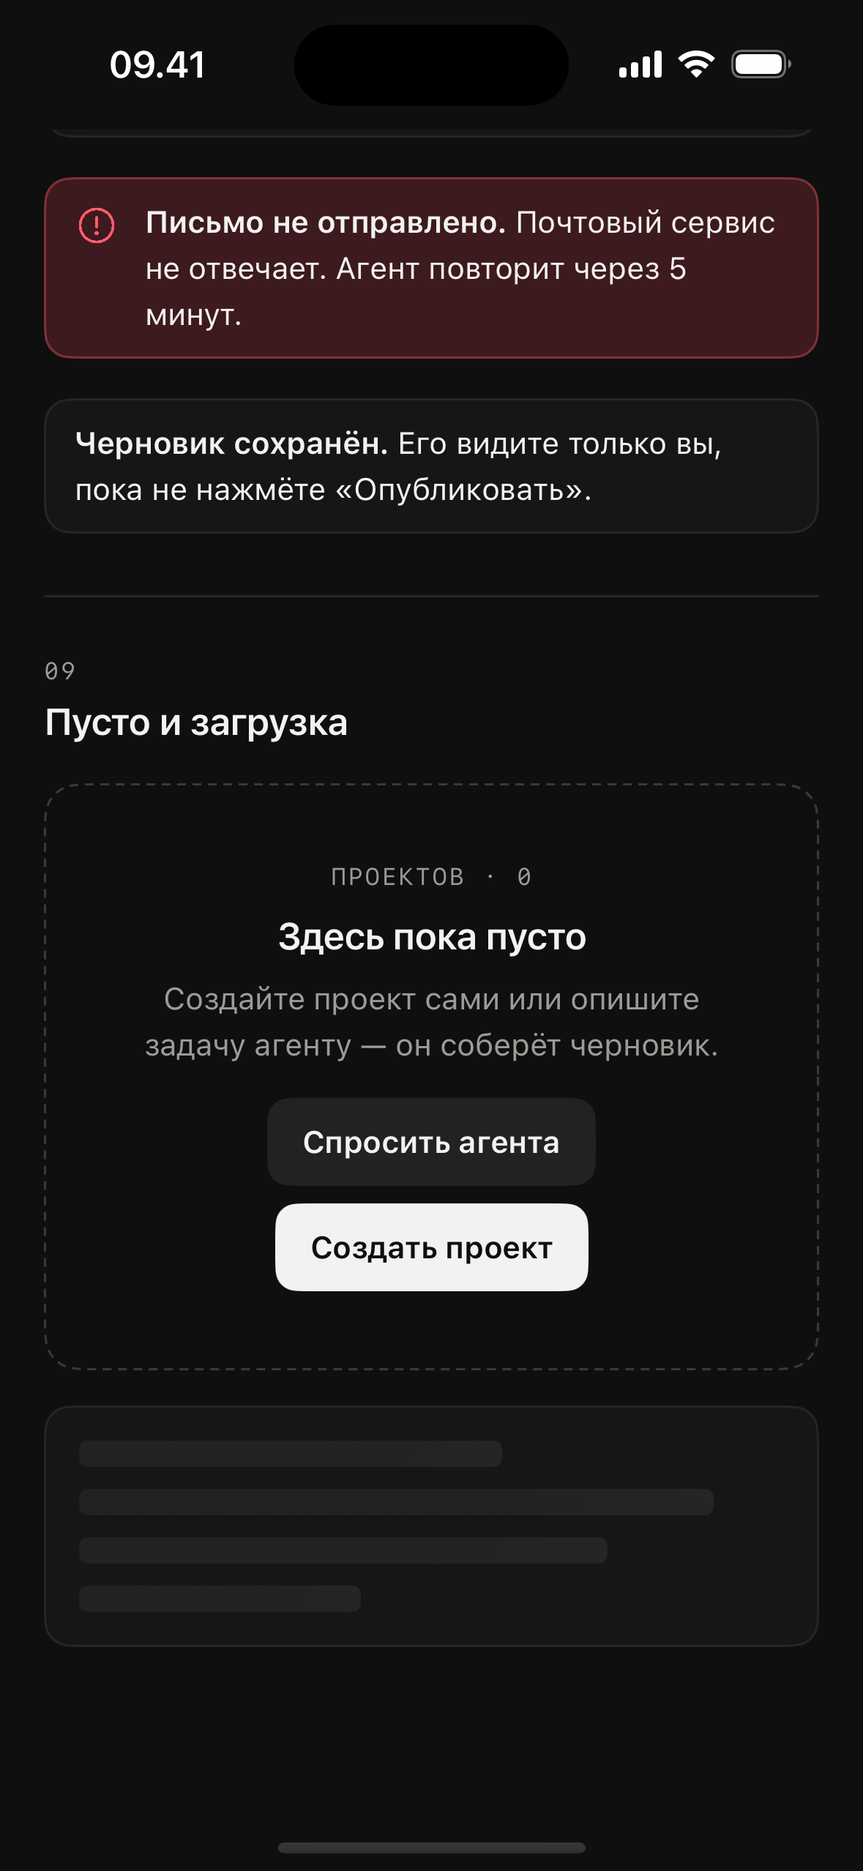
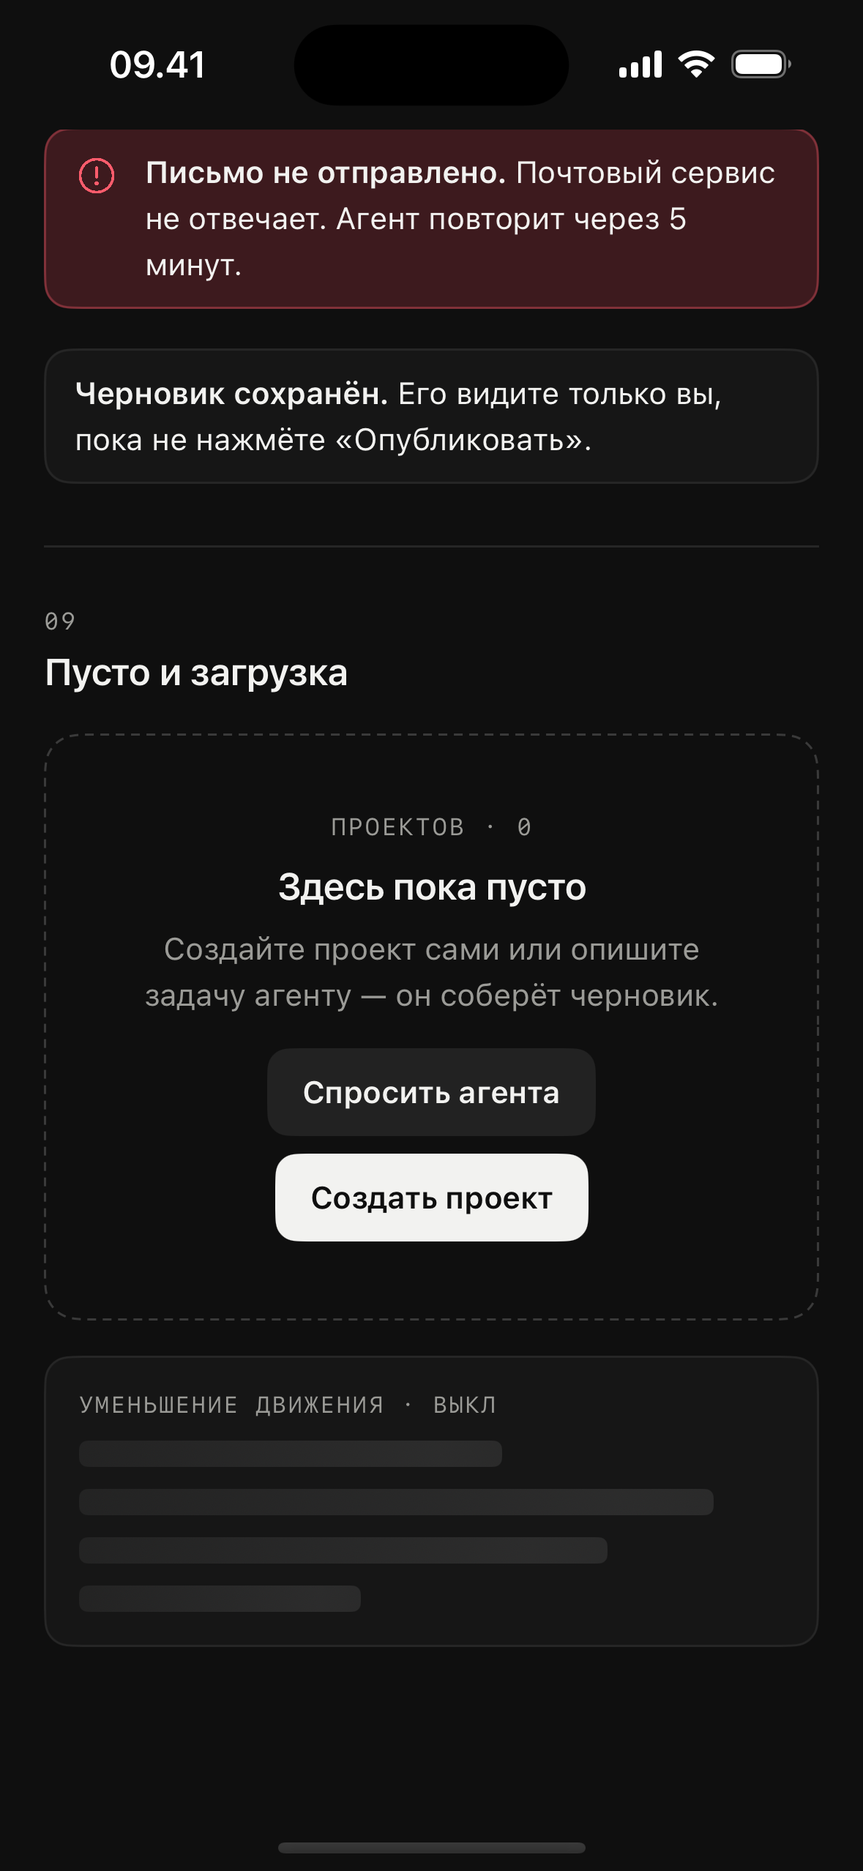
iPhone: правки повторного ревью — доступность радио и вкладок, видимое меню, крупный шрифт
- радио: название группы, «выбрано» и «1 из 3» для VoiceOver; варианты из Identifiable
- вкладки: ряд — панель вкладок, подпись со счётчиком «Задачи, 27»
- меню со значком по умолчанию — квадрат secondary, ghost только явно
- шторка: кнопки панели инструментов цветом текста
- скелет при «Уменьшении движения» — ровные плашки (проверено снимком)
- витрина: ряды кнопок при крупном шрифте встают столбиком
- снимок письма справа налево: 05-light-right-to-left.png; новый 09-light-reduce-motion.png

diff --git a/swift/YKDesign/Sources/YKDesign/Showcase/YKShowcaseView.swift b/swift/YKDesign/Sources/YKDesign/Showcase/YKShowcaseView.swift
@@ -90,19 +90,30 @@ private struct ShowcaseSection<Content: View>: View {
 }
 
 /// Подпись слева от примеров в строке, как `.line > .mono-label` в наброске.
+/// `stacksWhenCrowded` — для рядов кнопок: не помещаются в строку (крупный шрифт) — встают столбиком,
+/// а не переносятся вразнобой.
 private struct DemoLine<Content: View>: View {
     let label: String
+    let stacksWhenCrowded: Bool
     let content: Content
 
-    init(_ label: String, @ViewBuilder content: () -> Content) {
+    init(_ label: String, stacksWhenCrowded: Bool = false, @ViewBuilder content: () -> Content) {
         self.label = label
+        self.stacksWhenCrowded = stacksWhenCrowded
         self.content = content()
     }
 
     var body: some View {
         VStack(alignment: .leading, spacing: 10) {
             Text(label).ykMonoLabel()
-            FlowLayout(spacing: 10) { content }
+            if stacksWhenCrowded {
+                ViewThatFits(in: .horizontal) {
+                    HStack(spacing: 10) { content }
+                    VStack(alignment: .leading, spacing: 10) { content }
+                }
+            } else {
+                FlowLayout(spacing: 10) { content }
+            }
         }
     }
 }
@@ -123,7 +134,11 @@ private struct FlowLayout: Layout {
         for row in arrange(width: bounds.width, subviews: subviews) {
             var x = bounds.minX
             for index in row.indices {
-                let size = subviews[index].sizeThatFits(.unspecified)
+                // Элемент шире строки получает ширину строки, а не вылезает за край
+                let ideal = subviews[index].sizeThatFits(.unspecified)
+                let size = ideal.width > bounds.width
+                    ? subviews[index].sizeThatFits(ProposedViewSize(width: bounds.width, height: nil))
+                    : ideal
                 subviews[index].place(at: CGPoint(x: x, y: y + (row.height - size.height) / 2), proposal: ProposedViewSize(size))
                 x += size.width + spacing
             }
@@ -204,7 +219,7 @@ private struct TypeDemo: View {
 private struct ButtonsDemo: View {
     var body: some View {
         VStack(alignment: .leading, spacing: 18) {
-            DemoLine("Виды") {
+            DemoLine("Виды", stacksWhenCrowded: true) {
                 Button("Создать проект") {}.buttonStyle(.yk(.primary))
                 Button("Импорт") {}.buttonStyle(.yk(.secondary))
                 Button("Настроить") {}.buttonStyle(.yk(.outline))
@@ -215,13 +230,13 @@ private struct ButtonsDemo: View {
                 }
                 .buttonStyle(.yk(.link))
             }
-            DemoLine("Состояния") {
+            DemoLine("Состояния", stacksWhenCrowded: true) {
                 Button("Обычная") {}.buttonStyle(.yk(.primary))
                 Button("Отключена") {}.buttonStyle(.yk(.primary)).disabled(true)
                 Button("Агент пишет…") {}.buttonStyle(.yk(.primary, isLoading: true))
                 Button("Думаю…") {}.buttonStyle(.yk(.secondary, isLoading: true))
             }
-            DemoLine("Размеры") {
+            DemoLine("Размеры", stacksWhenCrowded: true) {
                 Button("Маленькая") {}.buttonStyle(.yk(.primary, size: .sm))
                 Button("Средняя") {}.buttonStyle(.yk(.primary, size: .md))
                 Button {} label: {
@@ -297,7 +312,7 @@ private struct ChoiceDemo: View {
             }
             VStack(alignment: .leading, spacing: 10) {
                 Text("Радио").ykMonoLabel()
-                YKRadioGroup(selection: $period, options: [("daily", "Каждый день"), ("weekly", "Раз в неделю"), ("never", "Не напоминать")])
+                YKRadioGroup("Напоминания", selection: $period, options: [("daily", "Каждый день"), ("weekly", "Раз в неделю"), ("never", "Не напоминать")])
             }
             DemoLine("Сегменты") {
                 YKSegmented(selection: $filter, options: [("all", "Все"), ("mine", "Мои"), ("archive", "Архив")])
@@ -401,18 +416,18 @@ private struct OverlaysDemo: View {
 
     var body: some View {
         VStack(alignment: .leading, spacing: 18) {
-            DemoLine("Открыть") {
+            DemoLine("Открыть", stacksWhenCrowded: true) {
                 Button("Окно") { showsAlert = true }.buttonStyle(.yk(.outline))
                 Button("Выбор действия") { showsDialog = true }.buttonStyle(.yk(.outline))
                 Button("Шторка") { showsSheet = true }.buttonStyle(.yk(.outline))
             }
-            DemoLine("Меню") {
+            DemoLine("Меню", stacksWhenCrowded: true) {
                 YKMenuButton {
                     projectMenuItems
                 } label: {
                     HStack(spacing: 6) { Text("Действия"); YKIcon(.caretDown, size: 14) }
                 }
-                YKMenuButton(label: "Ещё действия", variant: .ghost) { projectMenuItems }
+                YKMenuButton(label: "Ещё действия") { projectMenuItems }
             }
             VStack(alignment: .leading, spacing: 10) {
                 Text("Шторка · вид").ykMonoLabel()
@@ -442,8 +457,23 @@ private struct OverlaysDemo: View {
             projectMenuItems
             Button("Отмена", role: .cancel) {}
         }
-        .ykSheet(isPresented: $showsSheet, title: "Новый проект", detents: [.height(240), .medium]) {
-            sheetFields
+        .ykSheet(isPresented: $showsSheet, detents: [.height(260), .medium]) {
+            // Панель инструментов внутри шторки: кнопки берут цвет текста из .ykSheet
+            NavigationStack {
+                sheetFields
+                    .padding(.top, 4)
+                    .frame(maxHeight: .infinity, alignment: .top)
+                    .background(YKSheetMetrics.backgroundRole.color)
+                    .navigationTitle("Новый проект")
+                    #if os(iOS)
+                    .navigationBarTitleDisplayMode(.inline)
+                    .toolbarBackground(YKSheetMetrics.backgroundRole.color, for: .navigationBar)
+                    #endif
+                    .toolbar {
+                        ToolbarItem(placement: .cancellationAction) { Button("Отмена") { showsSheet = false } }
+                        ToolbarItem(placement: .confirmationAction) { Button("Готово") { showsSheet = false } }
+                    }
+            }
         }
         .onAppear {
             switch presenting {
@@ -479,13 +509,18 @@ private struct OverlaysDemo: View {
 // MARK: - 09 Пусто и загрузка
 
 private struct EmptyDemo: View {
+    @Environment(\.accessibilityReduceMotion) private var reduceMotion
+
     var body: some View {
         VStack(alignment: .leading, spacing: 16) {
             YKEmptyState(label: "Проектов · 0", title: "Здесь пока пусто", message: "Создайте проект сами или опишите задачу агенту — он соберёт черновик.") {
                 Button("Спросить агента") {}.buttonStyle(.yk(.secondary))
                 Button("Создать проект") {}.buttonStyle(.yk(.primary))
             }
-            YKCard { YKSkeleton() }
+            YKCard {
+                Text(reduceMotion ? "Уменьшение движения · вкл" : "Уменьшение движения · выкл").ykMonoLabel(size: 10.5)
+                YKSkeleton()
+            }
         }
     }
 }

diff --git a/swift/YKDesign/Sources/YKDesign/Inputs/YKRadioGroup.swift b/swift/YKDesign/Sources/YKDesign/Inputs/YKRadioGroup.swift
@@ -6,17 +6,43 @@ public enum YKRadioAppearance {
     public static func borderWidth(isSelected: Bool) -> CGFloat { isSelected ? 6 : 1.5 }
 }
 
-/// Группа выбора одного из нескольких: `YKRadioGroup(selection: $period, options: [(.daily, "Каждый день"), …])`.
+/// Что VoiceOver говорит о пункте радио кроме названия.
+public enum YKRadioAccessibility {
+    /// «1 из 3».
+    public static func position(index: Int, count: Int) -> String {
+        "\(index + 1) из \(count)"
+    }
+}
+
+/// Группа выбора одного из нескольких:
+/// `YKRadioGroup("Напоминания", selection: $period, options: [(.daily, "Каждый день"), …])`.
+/// VoiceOver читает название группы, у пункта — «выбрано» и позицию «1 из 3».
 public struct YKRadioGroup<Value: Hashable>: View {
     @Binding var selection: Value
-    let options: [(value: Value, title: String)]
+    let label: String
+    let choices: [(value: Value, title: String)]
     let axis: Axis
 
-    /// - Parameter axis: `.vertical` — столбиком (по умолчанию), `.horizontal` — в строку.
-    public init(selection: Binding<Value>, options: [(value: Value, title: String)], axis: Axis = .vertical) {
+    /// - Parameters:
+    ///   - label: название группы для VoiceOver.
+    ///   - axis: `.vertical` — столбиком (по умолчанию), `.horizontal` — в строку.
+    public init(_ label: String, selection: Binding<Value>, options: [(value: Value, title: String)], axis: Axis = .vertical) {
+        self.label = label
         self._selection = selection
-        self.options = options
+        self.choices = options
         self.axis = axis
+    }
+
+    /// Варианты из `Identifiable`-значений: выбор хранит их `id`.
+    public init<Item: Identifiable>(
+        _ label: String, selection: Binding<Value>, items: [Item], title: KeyPath<Item, String>, axis: Axis = .vertical
+    ) where Item.ID == Value {
+        self.init(label, selection: selection, options: Self.options(items, title: title), axis: axis)
+    }
+
+    nonisolated static func options<Item: Identifiable>(_ items: [Item], title: KeyPath<Item, String>) -> [(value: Value, title: String)]
+    where Item.ID == Value {
+        items.map { (value: $0.id, title: $0[keyPath: title]) }
     }
 
     public var body: some View {
@@ -24,13 +50,15 @@ public struct YKRadioGroup<Value: Hashable>: View {
             ? AnyLayout(VStackLayout(alignment: .leading, spacing: 12))
             : AnyLayout(HStackLayout(spacing: 16))
         layout {
-            ForEach(options, id: \.value) { option in
+            ForEach(Array(choices.enumerated()), id: \.offset) { index, option in
                 YKRadio(option.title, isSelected: option.value == selection) {
                     selection = option.value
                 }
+                .accessibilityValue(Text(YKRadioAccessibility.position(index: index, count: choices.count)))
             }
         }
         .accessibilityElement(children: .contain)
+        .accessibilityLabel(Text(label))
     }
 }
 

diff --git a/swift/YKDesign/Tests/YKDesignTests/AccessibilityReviewTests.swift b/swift/YKDesign/Tests/YKDesignTests/AccessibilityReviewTests.swift
@@ -1,0 +1,44 @@
+import Testing
+@testable import YKDesign
+
+@Suite("Повторное ревью: доступность и вид")
+struct AccessibilityReviewTests {
+    @Test("радио: позиция «N из M» для VoiceOver")
+    func radioPosition() {
+        #expect(YKRadioAccessibility.position(index: 0, count: 3) == "1 из 3")
+        #expect(YKRadioAccessibility.position(index: 2, count: 3) == "3 из 3")
+    }
+
+    @Test("радио из Identifiable-значений: варианты и выбор по id")
+    func radioIdentifiable() {
+        struct Period: Identifiable { let id: Int; let name: String }
+        let periods = [Period(id: 1, name: "Каждый день"), Period(id: 7, name: "Раз в неделю")]
+        let options = YKRadioGroup<Int>.options(periods, title: \.name)
+        #expect(options.map(\.value) == [1, 7])
+        #expect(options.map(\.title) == ["Каждый день", "Раз в неделю"])
+    }
+
+    @Test("вкладка: подпись со счётчиком, ряд — панель вкладок")
+    func tabsAccessibility() {
+        #expect(YKTabsAccessibility.label(title: "Задачи", count: 27) == "Задачи, 27")
+        #expect(YKTabsAccessibility.label(title: "Обзор", count: nil) == "Обзор")
+        #expect(YKTabsAccessibility.rowTraits.contains(.isTabBar))
+    }
+
+    @Test("меню со значком: видимая квадратная кнопка по умолчанию, ghost — только явно")
+    func menuIconTrigger() {
+        #expect(YKMenuTrigger.defaultIconVariant == .secondary)
+        #expect(YKMenuTrigger.defaultIconVariant.palette.background != .clear)
+    }
+
+    @Test("шторка: кнопки панели инструментов цветом текста, не системным синим")
+    func sheetTint() {
+        #expect(YKSheetMetrics.tintRole == .text)
+    }
+
+    @Test("скелет при Reduce Motion — ровная плашка без градиента")
+    func skeletonReduceMotion() {
+        #expect(YKSkeletonAppearance.fill(reduceMotion: true) == .flat(.surface2))
+        #expect(YKSkeletonAppearance.fill(reduceMotion: false) == .shimmer(base: .surface2, highlight: .surface3))
+    }
+}

diff --git a/swift/YKDesign/Sources/YKDesign/Loading/YKSkeleton.swift b/swift/YKDesign/Sources/YKDesign/Loading/YKSkeleton.swift
@@ -7,6 +7,18 @@ public enum YKSkeletonAppearance {
 
     public static func isShimmering(reduceMotion: Bool) -> Bool { !reduceMotion }
 
+    /// Чем залиты полосы.
+    public enum Fill: Equatable, Sendable {
+        /// Ровная плашка — при «Уменьшении движения».
+        case flat(YKColorRole)
+        /// Основа с бегущим бликом.
+        case shimmer(base: YKColorRole, highlight: YKColorRole)
+    }
+
+    public static func fill(reduceMotion: Bool) -> Fill {
+        isShimmering(reduceMotion: reduceMotion) ? .shimmer(base: .surface2, highlight: .surface3) : .flat(.surface2)
+    }
+
     /// Положение блика 0…1 через `elapsed` секунд.
     public static func phase(elapsed: TimeInterval, reduceMotion: Bool = false) -> Double {
         guard isShimmering(reduceMotion: reduceMotion) else { return 0 }
@@ -46,11 +58,15 @@ public struct YKSkeleton: View {
     }
 
     private func fill(phase: Double) -> AnyShapeStyle {
-        guard !reduceMotion else { return AnyShapeStyle(YKColorRole.surface2.color) }
-        // Блик проходит слева направо: градиент вдвое шире полосы и сдвигается по фазе
-        let start = UnitPoint(x: 1 - phase * 2, y: 0.5)
-        let end = UnitPoint(x: 3 - phase * 2, y: 0.5)
-        let gradient = Gradient(colors: [YKColorRole.surface2.color, YKColorRole.surface3.color, YKColorRole.surface2.color])
-        return AnyShapeStyle(LinearGradient(gradient: gradient, startPoint: start, endPoint: end))
+        switch YKSkeletonAppearance.fill(reduceMotion: reduceMotion) {
+        case .flat(let role):
+            return AnyShapeStyle(role.color)
+        case .shimmer(let base, let highlight):
+            // Блик проходит слева направо: градиент вдвое шире полосы и сдвигается по фазе
+            let start = UnitPoint(x: 1 - phase * 2, y: 0.5)
+            let end = UnitPoint(x: 3 - phase * 2, y: 0.5)
+            let gradient = Gradient(colors: [base.color, highlight.color, base.color])
+            return AnyShapeStyle(LinearGradient(gradient: gradient, startPoint: start, endPoint: end))
+        }
     }
 }

diff --git a/swift/YKDesign/Sources/YKDesign/Inputs/YKTabs.swift b/swift/YKDesign/Sources/YKDesign/Inputs/YKTabs.swift
@@ -10,6 +10,17 @@ public enum YKTabsAppearance {
     public static let countRole: YKColorRole = .muted
 }
 
+/// Что VoiceOver говорит о вкладках.
+public enum YKTabsAccessibility {
+    /// «Задачи, 27» — название и счётчик одной фразой.
+    public static func label(title: String, count: Int?) -> String {
+        count.map { "\(title), \($0)" } ?? title
+    }
+
+    /// Ряд вкладок для VoiceOver — панель вкладок: он объявляет «вкладка 2 из 4».
+    public static let rowTraits: AccessibilityTraits = .isTabBar
+}
+
 /// Вкладка: название и необязательный счётчик моноширинными цифрами.
 public struct YKTab<Value: Hashable>: Hashable {
     public let value: Value
@@ -40,6 +51,8 @@ public struct YKTabs<Value: Hashable>: View {
                     tabButton(tab)
                 }
             }
+            .accessibilityElement(children: .contain)
+            .accessibilityAddTraits(YKTabsAccessibility.rowTraits)
         }
         .scrollIndicators(.hidden)
         .overlay(alignment: .bottom) { YKColorRole.border.color.frame(height: 1) }
@@ -71,6 +84,7 @@ public struct YKTabs<Value: Hashable>: View {
             .contentShape(Rectangle())
         }
         .buttonStyle(.plain)
+        .accessibilityLabel(Text(YKTabsAccessibility.label(title: tab.title, count: tab.count)))
         .accessibilityAddTraits(isSelected ? [.isSelected] : [])
     }
 }

diff --git a/swift/YKDesign/Sources/YKDesign/Overlays/YKSheet.swift b/swift/YKDesign/Sources/YKDesign/Overlays/YKSheet.swift
@@ -6,6 +6,8 @@ public enum YKSheetMetrics {
     public static let gripSize = CGSize(width: 36, height: 5)
     public static let backgroundRole: YKColorRole = .surface
     public static let gripRole: YKColorRole = .surface3
+    /// Кнопки внутри шторки (в том числе на панели инструментов) — цветом текста, не системным синим.
+    public static let tintRole: YKColorRole = .text
 }
 
 /// Содержимое шторки: ручка сверху и поля как в наброске. Можно показать и без `.sheet` — в витрине.
@@ -51,7 +53,7 @@ public extension View {
                 .presentationDragIndicator(.hidden)
                 .presentationCornerRadius(YKSheetMetrics.cornerRadius)
                 .presentationBackground(YKSheetMetrics.backgroundRole.color)
-                .tint(YKColorRole.accent.color)
+                .tint(YKSheetMetrics.tintRole.color)
         }
     }
 }

diff --git a/swift/YKDesign/Sources/YKDesign/Buttons/YKMenuButton.swift b/swift/YKDesign/Sources/YKDesign/Buttons/YKMenuButton.swift
@@ -40,11 +40,17 @@ public struct YKMenuButton<Items: View, Label: View>: View {
     }
 }
 
+/// Триггер меню со значком.
+public enum YKMenuTrigger {
+    /// Квадрат с заливкой: «···» без формы почти не виден. Прозрачный `.ghost` — только по явному выбору.
+    public static let defaultIconVariant: YKButtonVariant = .secondary
+}
+
 public extension YKMenuButton where Label == YKIcon {
     /// Квадратный триггер со значком, по умолчанию «три точки». Подпись — для VoiceOver.
     init(
         icon: YKIconName = .dotsThree, label accessibilityTitle: String,
-        variant: YKButtonVariant = .ghost, size: YKButtonSize = .md,
+        variant: YKButtonVariant = YKMenuTrigger.defaultIconVariant, size: YKButtonSize = .md,
         @ViewBuilder items: () -> Items
     ) {
         self.variant = variant
